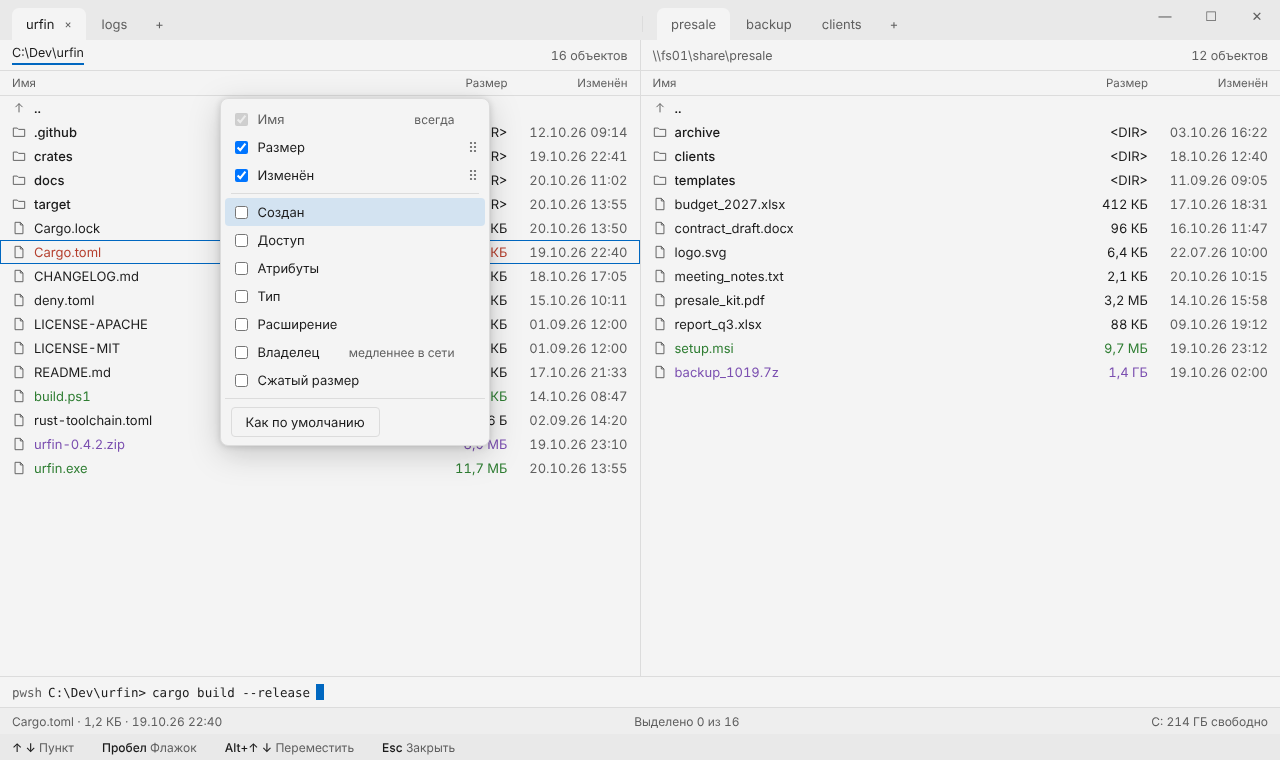
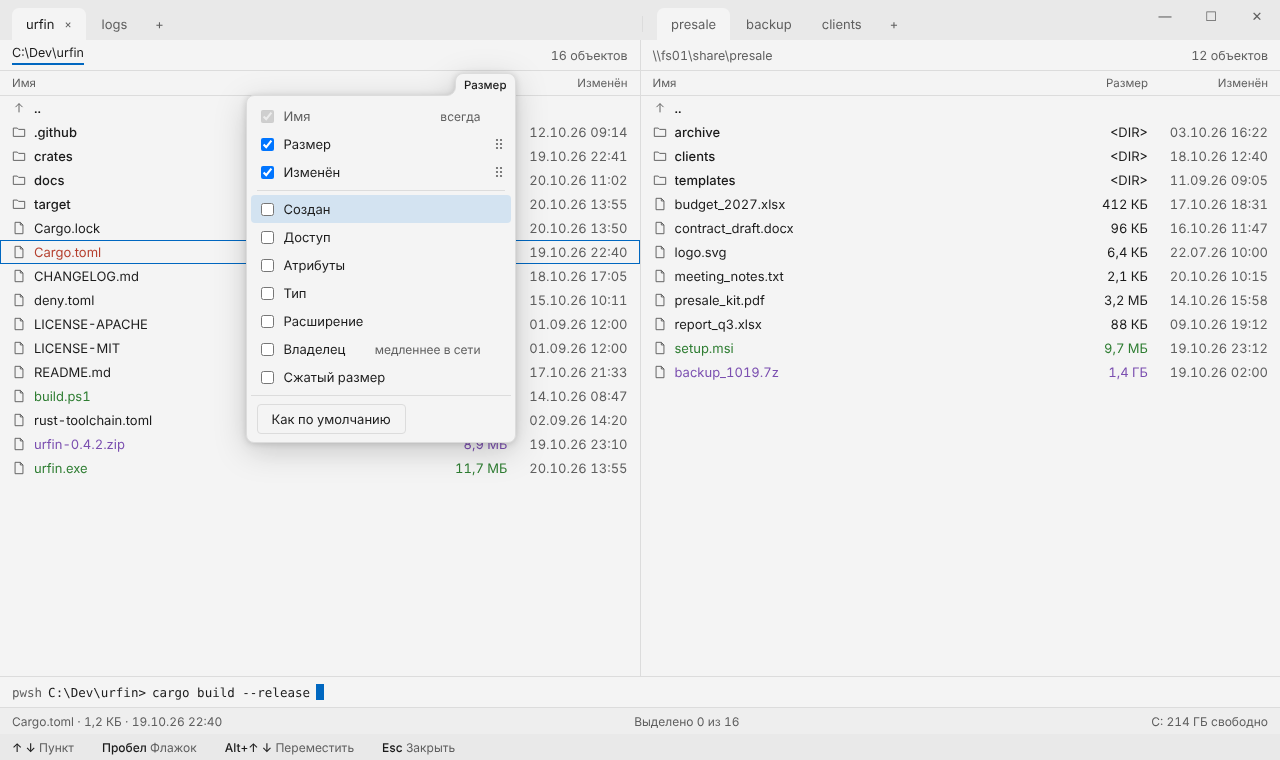
design: columns pouch grows from the header cell, with shadow
Claude-Session: https://claude.ai/code/session_013ZpcYnbJMYkHW4aMDDmFTq

Changed region(s): [[0.1562, 0.0908, 0.4062, 0.6053], [0.1875, 0.5447, 0.3125, 0.6053]]

diff --git a/docs/design/window.dc.html b/docs/design/window.dc.html
@@ -150,7 +150,8 @@ body{margin:0}
 </sc-if>
 <sc-if value="{{pn.coBag}}" hint-placeholder-val="{{ false }}">
 <span style="{{coAnchorWrap}}">
-<svg width="9" height="9" viewBox="0 0 9 9" aria-hidden="true" style="display: none"><path d="M0 9V8.5A8.5 8.5 0 0 0 8.5 0H9V9Z" fill="{{t.p}}"></path><path d="M0 8.5A8.5 8.5 0 0 0 8.5 0" fill="none" stroke="{{t.b}}"></path></svg>
+<button type="button" style="{{coAnchor}}">Размер</button>
+<svg width="9" height="9" viewBox="0 0 9 9" aria-hidden="true" style="position: absolute; left: -8px; top: calc(100% - 8px); z-index: 3"><path d="M0 9V8.5A8.5 8.5 0 0 0 8.5 0H9V9Z" fill="{{t.p}}"></path><path d="M0 8.5A8.5 8.5 0 0 0 8.5 0" fill="none" stroke="{{t.b}}"></path></svg>
 <div style="{{coList}}">
 <sc-for list="{{coItems}}" as="ci" hint-placeholder-count="10">
 <sc-if value="{{ci.sep}}" hint-placeholder-val="{{ false }}"><div style="height: 1px; margin: 4px 6px; background: {{t.b}}"></div></sc-if>
@@ -1224,9 +1225,9 @@ fs: "flex: 1; min-width: 0; height: 28px; box-sizing: border-box; display: flex;
 now: "flex: none; height: 22px; padding: 0 5px; border: 0; border-radius: 3px; background: " + t.h + "; color: " + t.s + "; font: inherit; font-size: 10.5px" }));
 const coCur = 4;
 const coVals = {
-coAnchorWrap: "position: absolute; right: 150px; top: 58px; display: flex; z-index: 4; " + popShadow,
+coAnchorWrap: "position: absolute; right: 124px; top: 33px; display: flex; z-index: 4; " + popShadow,
 coAnchor: "position: relative; z-index: 2; height: 23px; margin-bottom: -1px; padding: 0 8px 1px; display: flex; align-items: center; border: 1px solid " + t.b + "; border-bottom: 0; border-radius: 8px 8px 0 0; background: " + t.p + "; color: " + t.t + "; font: inherit; font-size: 11.5px; font-weight: 500",
-coList: "position: relative; width: 270px; padding: 6px 4px 4px; box-sizing: border-box; background: " + t.p + "; border: 1px solid " + t.b + "; border-radius: 8px; display: flex; flex-direction: column; z-index: 1; font-size: 13px; font-weight: 400; color: " + t.t,
+coList: "position: absolute; right: 0; top: 100%; width: 270px; padding: 6px 4px 4px; box-sizing: border-box; background: " + t.p + "; border: 1px solid " + t.b + "; border-radius: 8px 0 8px 8px; display: flex; flex-direction: column; z-index: 1; font-size: 13px; font-weight: 400; color: " + t.t,
 coItems: [["Имя",1,1,"всегда"],["Размер",1],["Изменён",1],null,["Создан",0],["Доступ",0],["Атрибуты",0],["Тип",0],["Расширение",0],["Владелец",0,0,"медленнее в сети"],["Сжатый размер",0]].map((m, i) => {
 if (!m) return { item: false, sep: true };
 const on = !!m[1], dis = !!m[2], isC = i === coCur;

diff --git a/docs/design/DESIGN.md b/docs/design/DESIGN.md
@@ -10,7 +10,7 @@
 - **Верх — навигация, низ — события** (№63). Тост — только пассивное сообщение без кнопок; всё, где есть действия, — встроенная строка (как F5): на ширину активной панели, если касается её, или на всю ширину, если обеих. Сверху только табы и пути. Всё событийное — внизу, снизу вверх: keybar → статус → командная строка → job-бар → строка-вопрос/баннер; тосты — справа снизу над этой зоной (отступ 12 от её верхнего края, стопка ≤3 вверх).
 - Без модальных окон: всё, что спрашивает, — **встроенная строка внизу**, она **накрывает** нижнюю часть панелей (список не перестраивается; если курсор оказался под строкой — список прокручивается так, чтобы курсор был виден). Исключение — job-бар: живёт долго, поэтому **занимает место** над командной строкой и сдвигает панели.
 - **Одна информация — одно место** (№61): имя файла — во вкладке; путь — в заголовке экрана/панели; размер, кодировка, переводы строк, тип — в статус-строке; переключатели режимов — в заголовке экрана; клавиши встроенной строки — подписями на её кнопках и **не** повторяются в keybar (keybar в это время показывает только дополнительные клавиши: Tab, F3 и т. п.).
-- **Всплывающие объекты — с тенью** (№65): «мешочек» целиком (корешок + список), контекстное меню, плашки — тень `shadow` (смещение 8, размытие 16 + 1/3); без тени они сливаются с панелью. Нечем привязать к якорю — плашка без корешка у места вызова.
+- **Всплывающие объекты — с тенью** (№65): «мешочек» целиком (корешок + список), контекстное меню, плашки — тень `shadow` (смещение 8, размытие 16 + 1/3); без тени они сливаются с панелью. Есть от чего — «мешочек» с корешком из самого якоря (ячейка заголовка, путь, кнопка); нечем привязать — плашка без корешка у места вызова.
 - **Всплывающий список и его кнопка — одна фигура** («мешочек»): меню F9, выпадающие поля, кнопки со списком. Открытая кнопка становится корешком цвета `panel` без нижней границы и перетекает в список; корешок — в любом месте верхнего края списка, как удобнее для компоновки (подробно — `screen-menu.png`). Контекстное меню без кнопки-якоря — обычная плашка.
 - **Издатель**: в технических идентификаторах — `Aahz` (CompanyName exe, `HKLM\Software\Policies\Aahz\Urfin`, id пакета winget); имя «Антон Антропов» — только в текстах для человека («О программе», `LegalCopyright` exe — добавить в D-08).
 - Цвет — только роли темы; литералы запрещены (T-01-6). Акцент — только для фокуса/курсора/основной кнопки; красный (`modified`) — для опасного действия; `context_remote` (янтарь) — для «ждёт ответа».
@@ -78,7 +78,7 @@
 | `screen-usermenu.png` | F2: «мешочек» от корешка «Меню ▾» слева в заголовке панели, список 500, строки 28: буква моно `accent`, название, команда моно `secondary` с «…», метка «папка» у пунктов из `.urfin-menu.toml`, ▸ подменю; разделитель — глобальные пункты; «Изменить меню…» (открывает файл меню в редакторе); F4 — правка пункта, Ins/Del | D-05 / S6 |
 | `screen-usermenuedit.png` | Правка пункта (F4 в меню): строка внизу панели, подписи 64 в колонку — Клавиша, Название; Команда (моно); чипы подстановок `!.!` имя, `!@!` отмеченные, `!\` папка + предпросмотр раскрытой команды; Где: Глобально / Эта папка; Сохранить / Отмена | D-04 / S6 |
 | `screen-pack.png`, `screen-pack-pw.png` | Shift+F1: строка на всю ширину по образцу F5 — «Упаковать N · размер в» + **формат слева** (`zip ▾`, рядом с началом строки — короткий путь мыши) + имя архива с расширением (в другой панели) (на запись только zip, 7z, tar.zst, tar.gz — S8); сжатие сегментами Быстро/Обычно/Макс; «Пароль» → поле + «AES-256» (только zip/7z); solid — только для 7z; «Удалить исходные после» (утверждено) | D-04 / S8 (M5b) |
-| `screen-columns.png` | Ctrl+F9 / правый клик по заголовку: плашка 270 с тенью под заголовком у места вызова (без корешка), строки 28: включённые сверху (Имя — всегда, неактивен) с ручкой ⋮⋮, ниже выключенные, в т. ч. Тип; «Владелец — медленнее в сети»; «Как по умолчанию»; Alt+↑↓ — порядок с клавиатуры | D-03 |
+| `screen-columns.png` | Ctrl+F9 / правый клик по заголовку: «мешочек» 270 с тенью, корешок — сама ячейка заголовка колонки, на которой вызвали, строки 28: включённые сверху (Имя — всегда, неактивен) с ручкой ⋮⋮, ниже выключенные, в т. ч. Тип; «Владелец — медленнее в сети»; «Как по умолчанию»; Alt+↑↓ — порядок с клавиатуры | D-03 |
 | `screen-columnswide.png` | Панель с колонками Имя / Размер 84 / Изменён 120 / Создан 120 / Атр. 52; числа и даты вправо, атрибуты влево; разделители заголовка 1×12 `border`, под мышью — 2 `accent` на всю высоту (ресайз) | D-03 |
 | `screen-jobslist.png` | Ctrl+J: job-бар раскрыт вверх на всю ширину над командной строкой: «Задачи N» + Свернуть; «✓ Готово N · Очистить»; строки 38: тип, что → куда, прогресс 4, объём, скорость, «осталось ≈», пауза/отмена; ждёт ответа — `context_remote` + «Ответить»; ошибка — `modified` + «Повторить» (только упавшие); в очереди (диск занят) — `secondary` + «Без очереди» | D-06 / S5 |
 | `screen-dragpanel.png`, `screen-dragfolder.png` | Перетаскивание: плашка-призрак у указателя (иконка, «N объектов», «Копировать в X · Shift — перенести, Alt — ярлык»; по умолчанию — правило Windows: другой том — копировать, тот же — перенести); цель-панель — рамка 2 `accent` внутрь; цель-папка — только её строка, фон `cursor` + рамка `accent` | D-03 |
